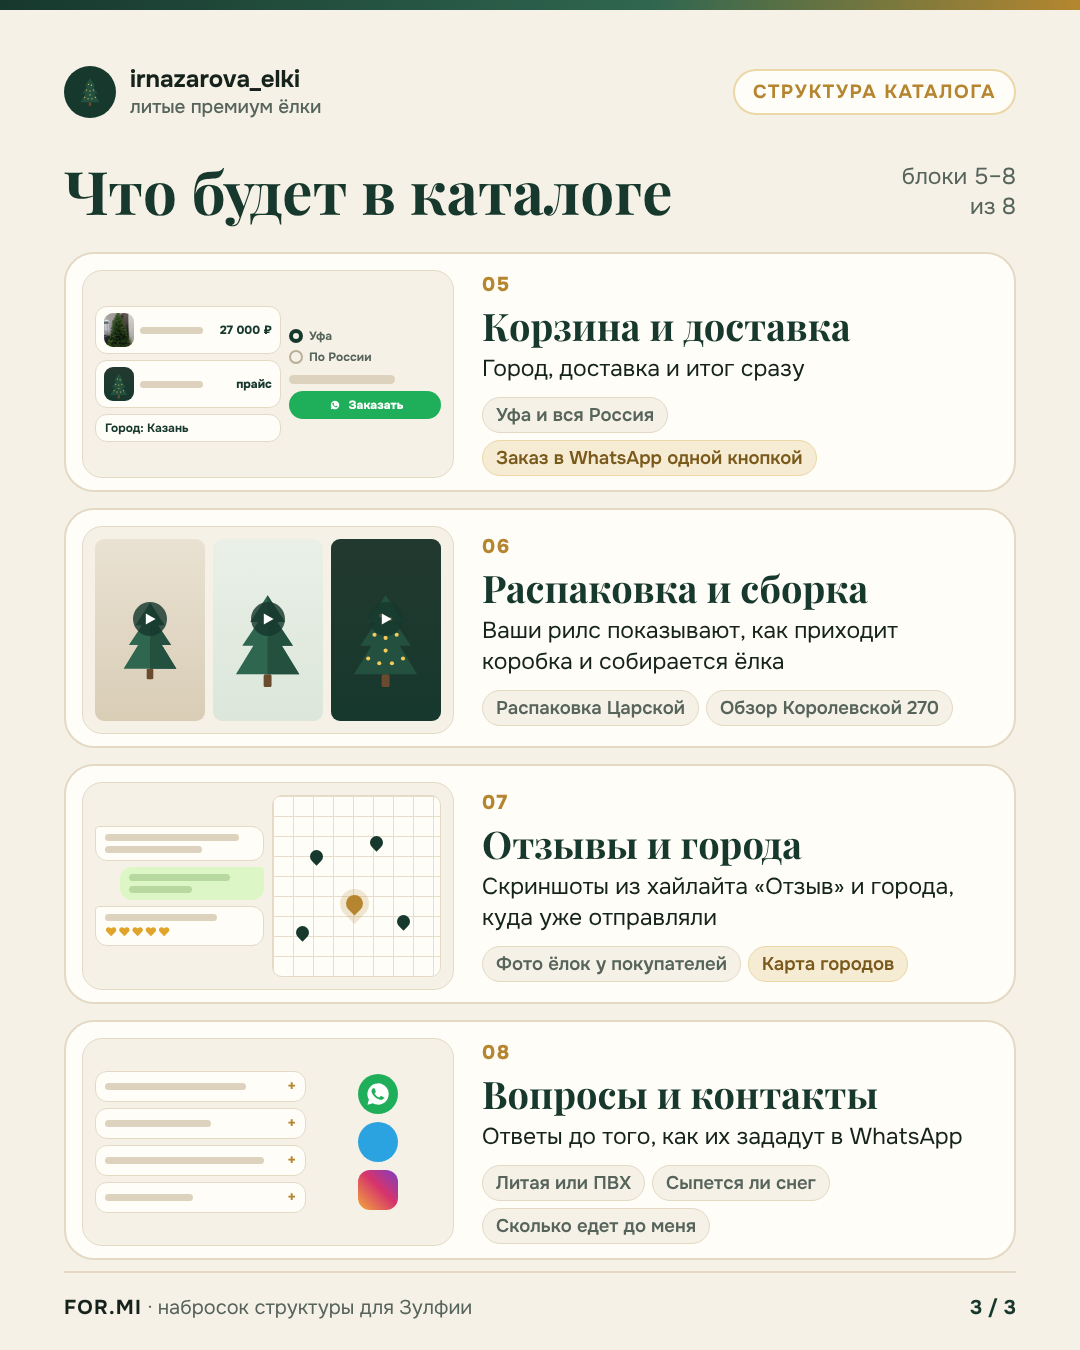
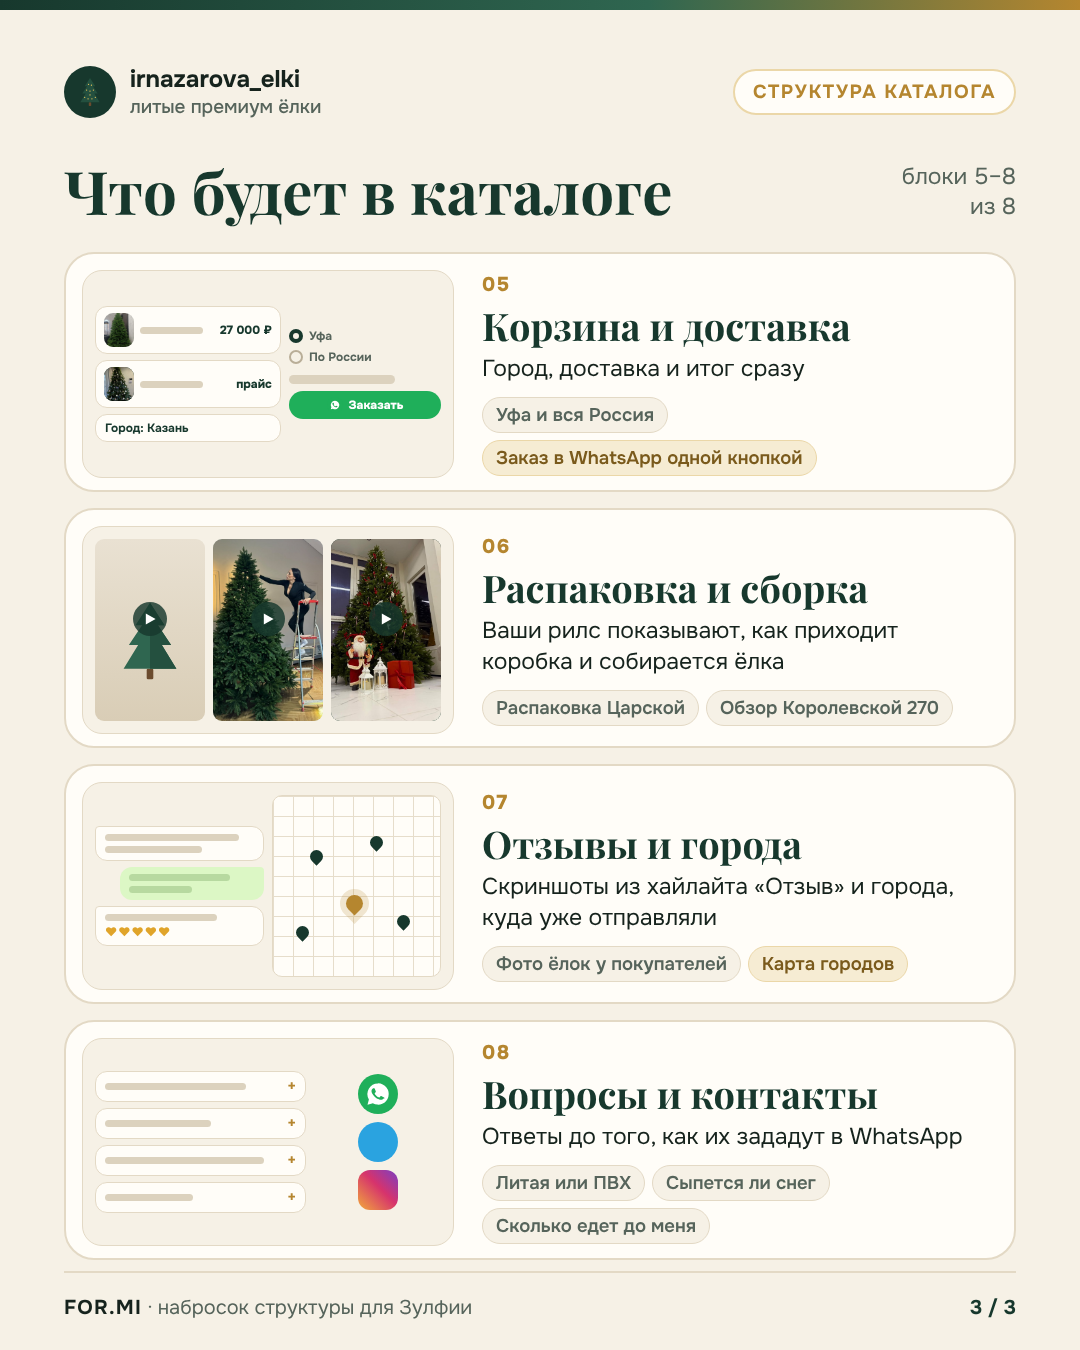
Ёлки Зулфии: фото Королевской в каталоге, гирляндах и обзоре
Claude-Session: https://claude.ai/code/session_01MqcZMGjxBWFrRhdN41bFta

Changed region(s): [[0.1833, 0.3733, 0.4278, 0.56], [0.0917, 0.2489, 0.1222, 0.3111]]

diff --git a/irnazarova-elki/struktura.html b/irnazarova-elki/struktura.html
@@ -230,7 +230,7 @@ h1 em{font-style:normal;color:var(--gold)}
     <!-- 04 гирлянды -->
     <article class="blk">
       <div class="wf" style="grid-template-columns:.8fr 1.2fr;align-items:stretch">
-        <div class="ph" style="background:linear-gradient(180deg,#22392F,#17382D)"><svg aria-hidden="true"><use href="#tree-lights"/></svg></div>
+        <div class="ph" style="background:linear-gradient(180deg,#22392F,#17382D)" data-photo="garland"><svg aria-hidden="true"><use href="#tree-lights"/></svg></div>
         <div style="display:grid;gap:7px;align-content:center">
           <div class="row"><span class="chipw on">Тёплый</span><span class="chipw">Холодный</span></div>
           <div class="card" style="grid-template-columns:1fr auto;align-items:center;padding:7px 9px"><span class="mini">Для 180–210&nbsp;см</span><span class="dot" style="background:#F5C95A"></span></div>
@@ -259,7 +259,7 @@ h1 em{font-style:normal;color:var(--gold)}
       <div class="wf" style="grid-template-columns:1.1fr .9fr;align-items:stretch">
         <div style="display:grid;gap:6px;align-content:center">
           <div class="card" style="grid-template-columns:30px 1fr auto;align-items:center;padding:6px 8px"><div class="ph" style="height:34px" data-photo="carskaya"><svg aria-hidden="true"><use href="#tree"/></svg></div><span class="ln" style="width:85%;height:7px"></span><span class="price" style="font-size:12px">27&nbsp;000&nbsp;₽</span></div>
-          <div class="card" style="grid-template-columns:30px 1fr auto;align-items:center;padding:6px 8px"><div class="ph" style="height:34px;background:linear-gradient(180deg,#22392F,#17382D)"><svg aria-hidden="true"><use href="#tree-lights"/></svg></div><span class="ln" style="width:70%;height:7px"></span><span class="price" style="font-size:12px">прайс</span></div>
+          <div class="card" style="grid-template-columns:30px 1fr auto;align-items:center;padding:6px 8px"><div class="ph" style="height:34px;background:linear-gradient(180deg,#22392F,#17382D)" data-photo="garland"><svg aria-hidden="true"><use href="#tree-lights"/></svg></div><span class="ln" style="width:70%;height:7px"></span><span class="price" style="font-size:12px">прайс</span></div>
           <div class="card" style="padding:7px 9px"><span class="mini" style="color:var(--pine)">Город: Казань</span></div>
         </div>
         <div style="display:grid;gap:7px;align-content:center">
@@ -276,8 +276,8 @@ h1 em{font-style:normal;color:var(--gold)}
     <article class="blk">
       <div class="wf" style="grid-template-columns:repeat(3,1fr);align-items:stretch">
         <div class="ph" style="background:linear-gradient(180deg,#E9E1D2,#D9CDB6)" data-photo="unbox"><svg aria-hidden="true" style="width:60%"><use href="#tree"/></svg><span class="play"><svg viewBox="0 0 10 10"><path d="M2 1l7 4-7 4z"/></svg></span></div>
-        <div class="ph" data-photo="korolevskaya"><svg aria-hidden="true"><use href="#tree"/></svg><span class="play"><svg viewBox="0 0 10 10"><path d="M2 1l7 4-7 4z"/></svg></span></div>
-        <div class="ph" style="background:linear-gradient(180deg,#22392F,#17382D)"><svg aria-hidden="true"><use href="#tree-lights"/></svg><span class="play"><svg viewBox="0 0 10 10"><path d="M2 1l7 4-7 4z"/></svg></span></div>
+        <div class="ph" data-photo="obzor"><svg aria-hidden="true"><use href="#tree"/></svg><span class="play"><svg viewBox="0 0 10 10"><path d="M2 1l7 4-7 4z"/></svg></span></div>
+        <div class="ph" style="background:linear-gradient(180deg,#22392F,#17382D)" data-photo="decor"><svg aria-hidden="true"><use href="#tree-lights"/></svg><span class="play"><svg viewBox="0 0 10 10"><path d="M2 1l7 4-7 4z"/></svg></span></div>
       </div>
       <div class="txt"><span class="no">06</span><h3>Распаковка и&nbsp;сборка</h3><p class="why">Ваши рилс показывают, как приходит коробка и&nbsp;собирается ёлка</p><div class="chips"><span>Распаковка Царской</span><span>Обзор Королевской 270</span></div></div>
     </article>
@@ -329,7 +329,10 @@ const PHOTOS={
   hero:["img/carskaya-1.jpg","70% 45%"],
   carskaya:["img/carskaya-tree.jpg","50% 40%"],
   snow:["img/snow.jpg","50% 50%"],
-  korolevskaya:["img/korolevskaya.jpg","50% 50%"],
+  korolevskaya:["img/korolevskaya.jpg","50% 30%"],
+  garland:["img/garland.jpg","50% 40%"],
+  decor:["img/decor.jpg","45% 50%"],
+  obzor:["img/obzor.jpg","62% 40%"],
   unbox:["img/unbox.jpg","50% 50%"]
 };
 document.querySelectorAll("[data-photo]").forEach(el=>{
